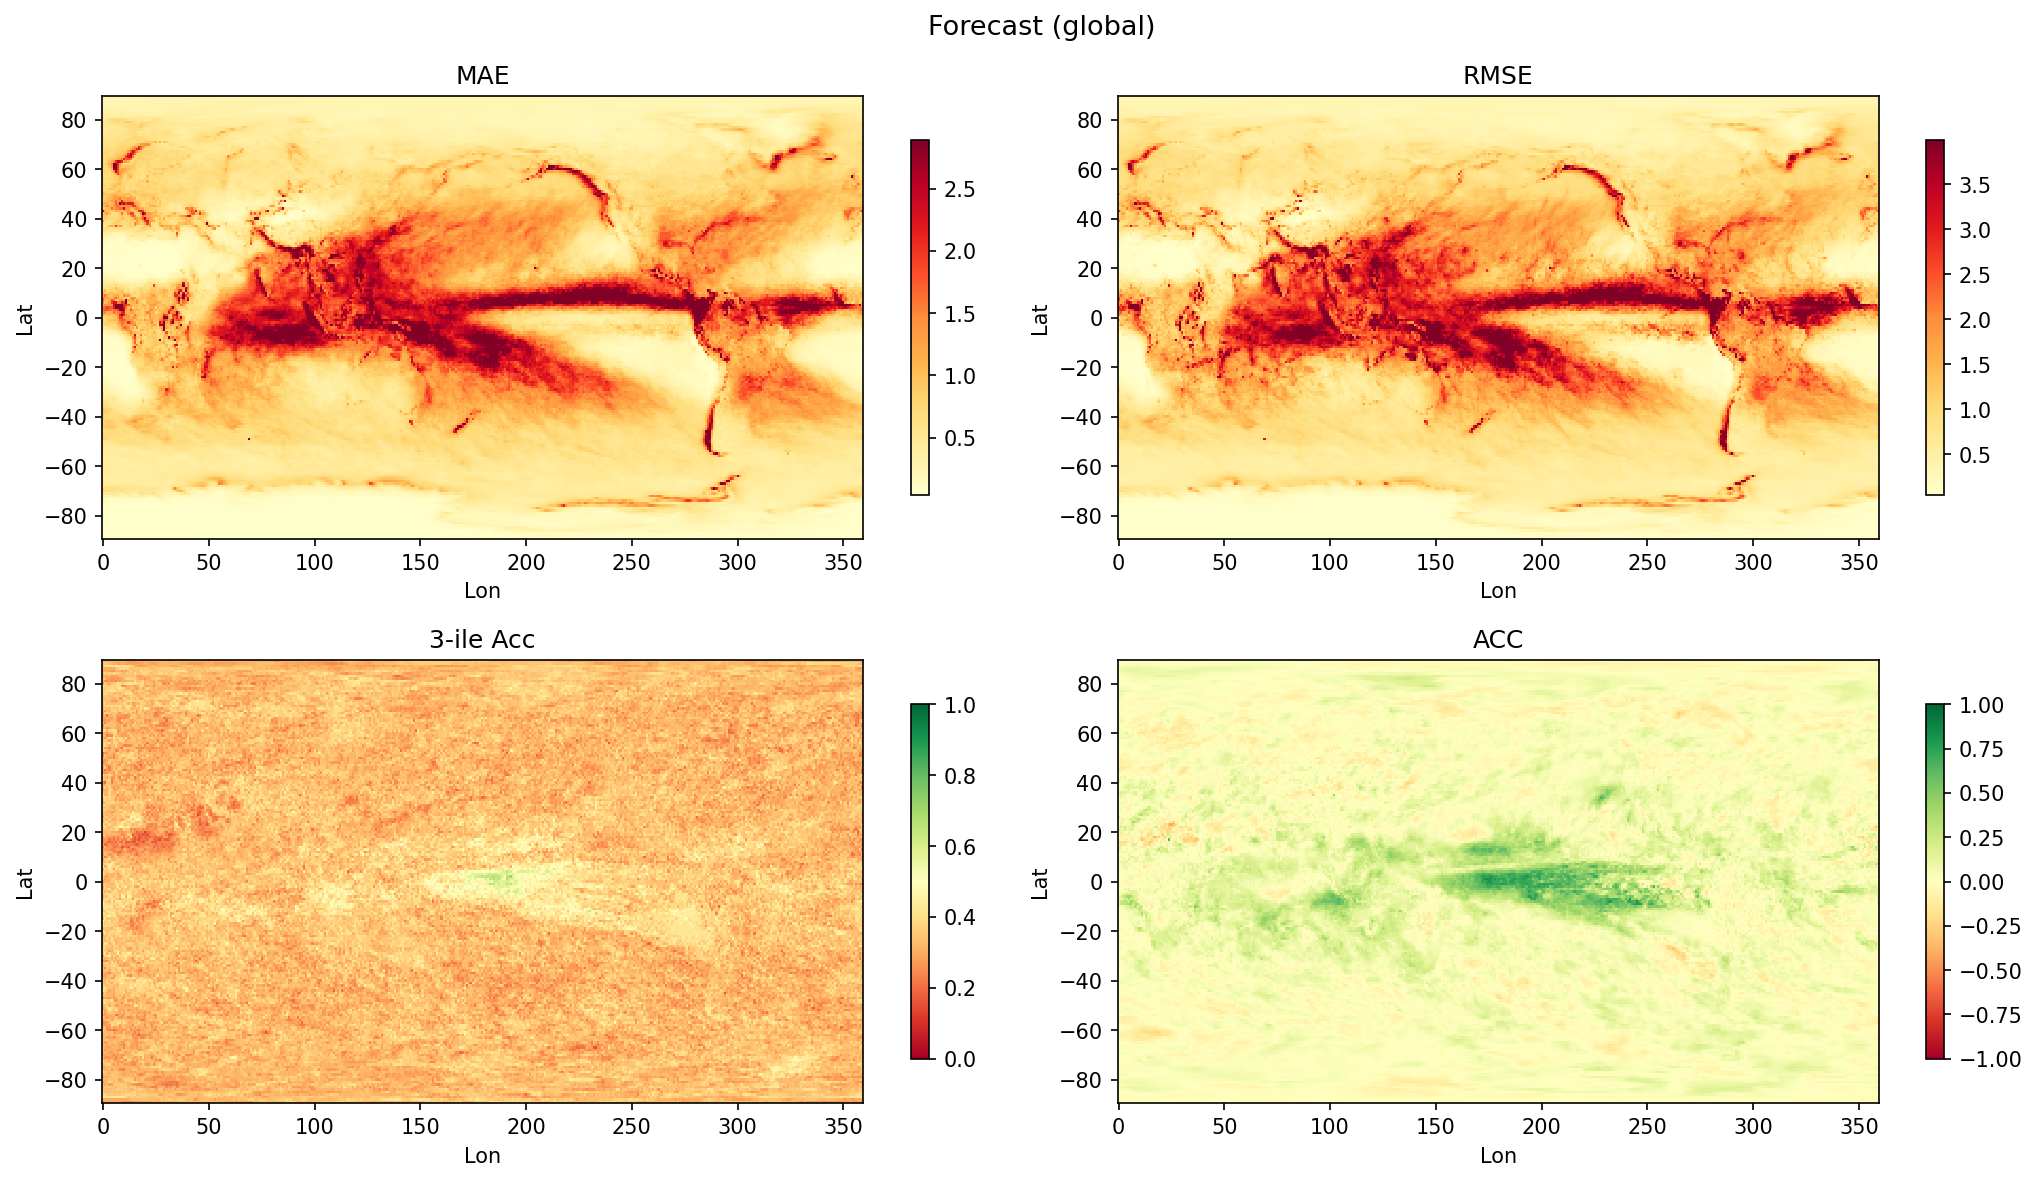
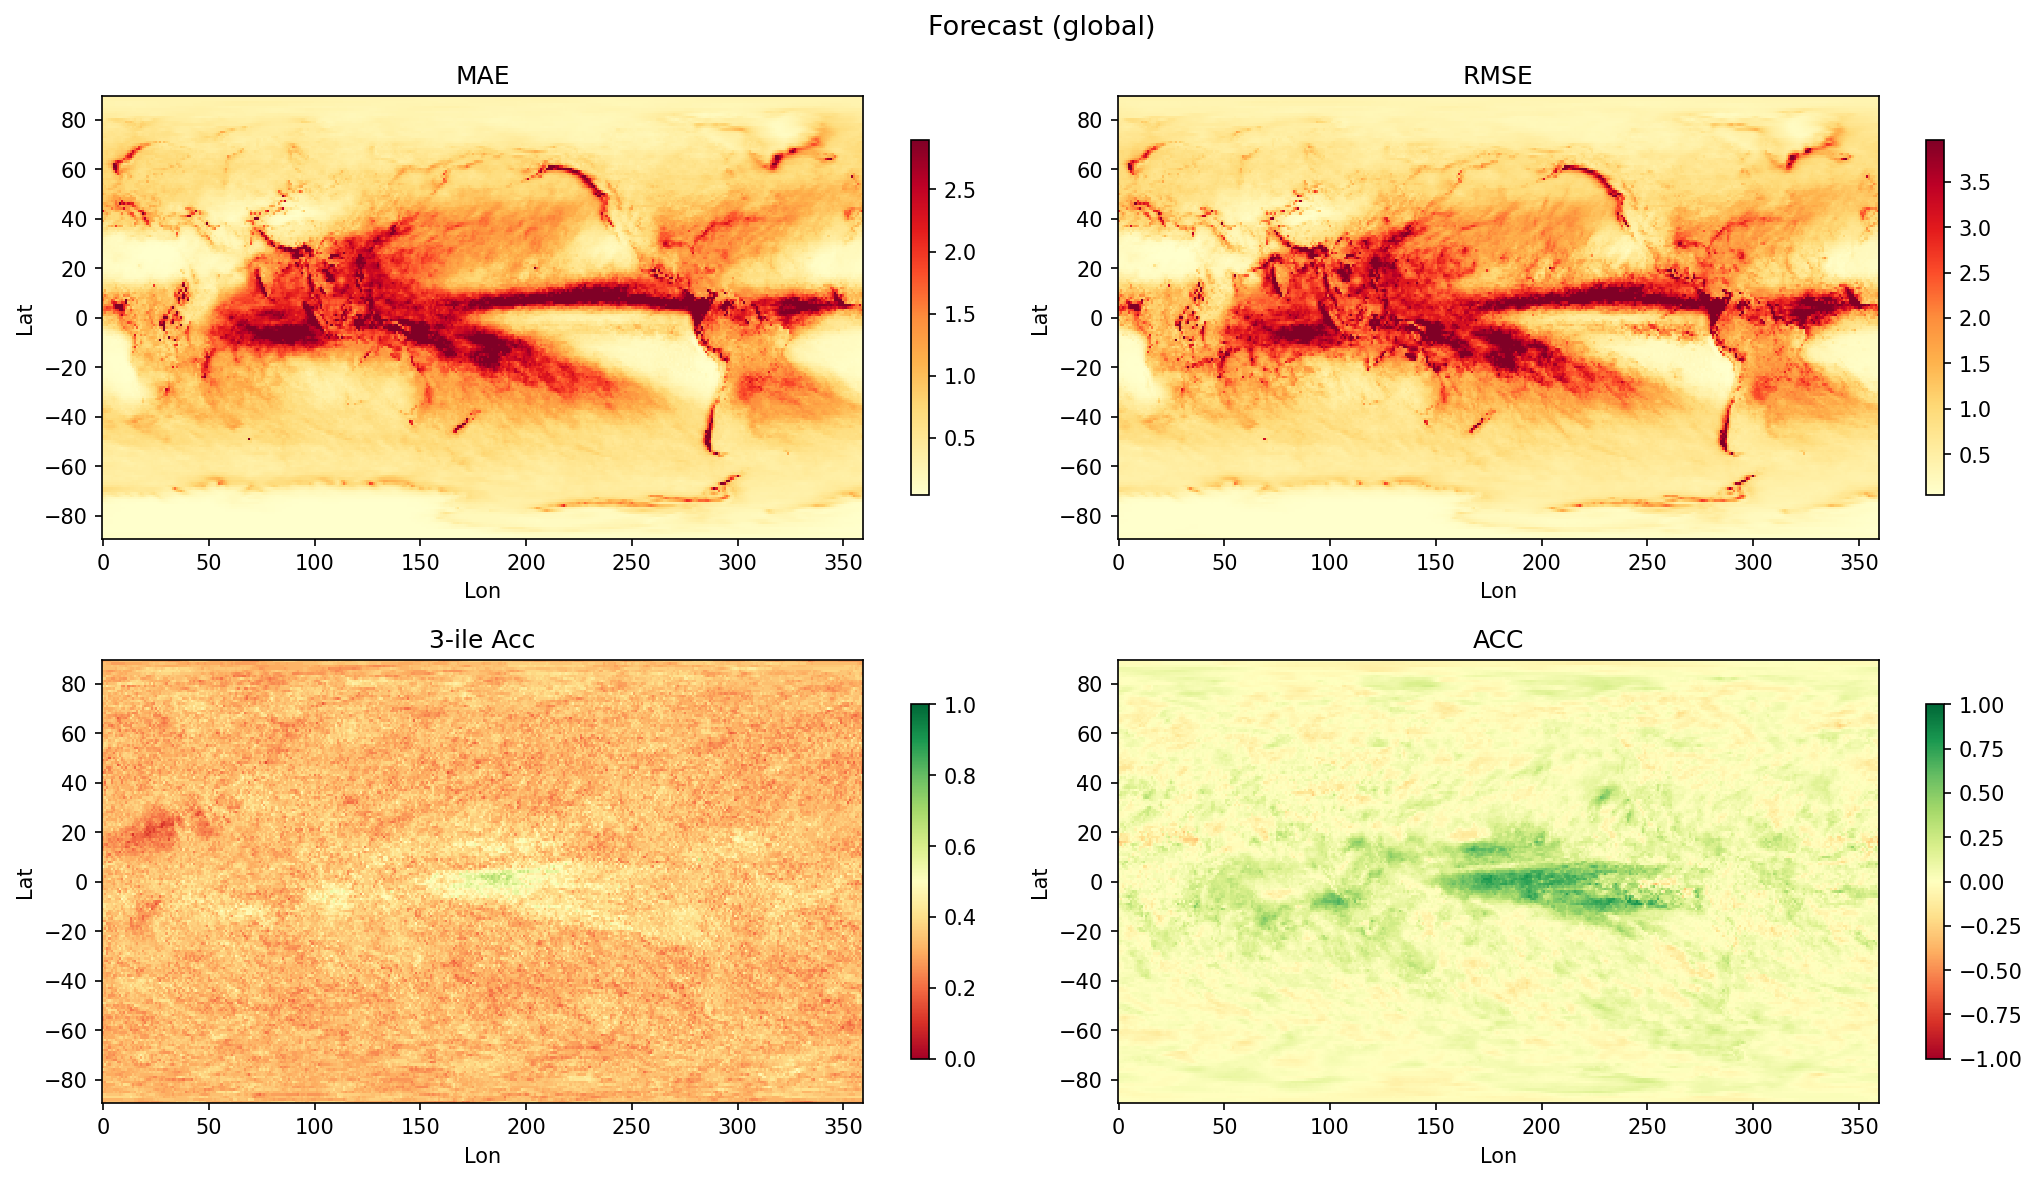
update README + maps with new model

diff --git a/train.py b/train.py
@@ -103,7 +103,7 @@ def train():
 
     EPOCHS = 20
     print(f"\nstarting training for {EPOCHS} epochs...")
-    best_loss = np.inf
+    best_acc = -np.inf
 
     train_loader, test_loader, train_timesteps, test_timesteps = loaders()
     grid_shape = (test_timesteps, 179, 360)
@@ -123,7 +123,6 @@ def train():
             optimizer.step()
             train_loss += loss.item()
 
-        # --- eval: collect all test predictions, then compute metrics ---
         model.eval()
         all_preds, all_obs, all_baseline = [], [], []
         with torch.no_grad():
@@ -145,7 +144,6 @@ def train():
         bl_mae, bl_rmse, bl_acc, bl_nile = compute_metrics(
             bl_grid, obs_grid, test_months
         )
-        test_loss = np.mean((pred_grid - obs_grid) ** 2)
 
         print(
             f"\nEpoch {epoch + 1}/{EPOCHS}  train_loss={train_loss / len(train_loader):.4f}"
@@ -156,10 +154,10 @@ def train():
         print(f"  {'ACC':12} {fc_acc:10.4f} {bl_acc:10.4f}")
         print(f"  {f'{N_QUANTILES}-ile Acc':12} {fc_nile:10.4f} {bl_nile:10.4f}")
 
-        if test_loss < best_loss:
-            best_loss = test_loss
+        if fc_acc > best_acc:
+            best_acc = fc_acc
             torch.save(model.state_dict(), "models/senate.pt")
-            print("  -> saved best state to models/senate.pt")
+            print("  -> saved best state to models/senate.pt [used ACC for validation]")
 
 
 if __name__ == "__main__":

diff --git a/README.md b/README.md
@@ -5,29 +5,29 @@ Still a lot of improvement to be found + more ideas to test.
 ## Global Results
 ```
 --- Forecast (global) ---
-MAE:        0.8753
-RMSE:       1.1906
-3-ile acc: 0.3363
-ACC:        0.1011
+MAE:        0.8668
+RMSE:       1.1855
+3-ile acc: 0.3355
+ACC:        0.0496
 
 --- Baseline (global) ---
 MAE:        0.9378
 RMSE:       1.2536
 3-ile acc: 0.3390
-ACC:        0.1017
+ACC:        0.0445
 ```
 
 ## Results in Central Africa AOI
 ```
 --- Forecast (AOI) ---
-MAE:        1.0730
-RMSE:       1.5854
-3-ile acc: 0.3389
-ACC:        0.1952
+MAE:        1.0484
+RMSE:       1.5547
+3-ile acc: 0.3382
+ACC:        0.0739
 
 --- Baseline (AOI) ---
 MAE:        1.2330
 RMSE:       1.7422
 3-ile acc: 0.3401
-ACC:        0.2017
+ACC:        0.0693
 ```
